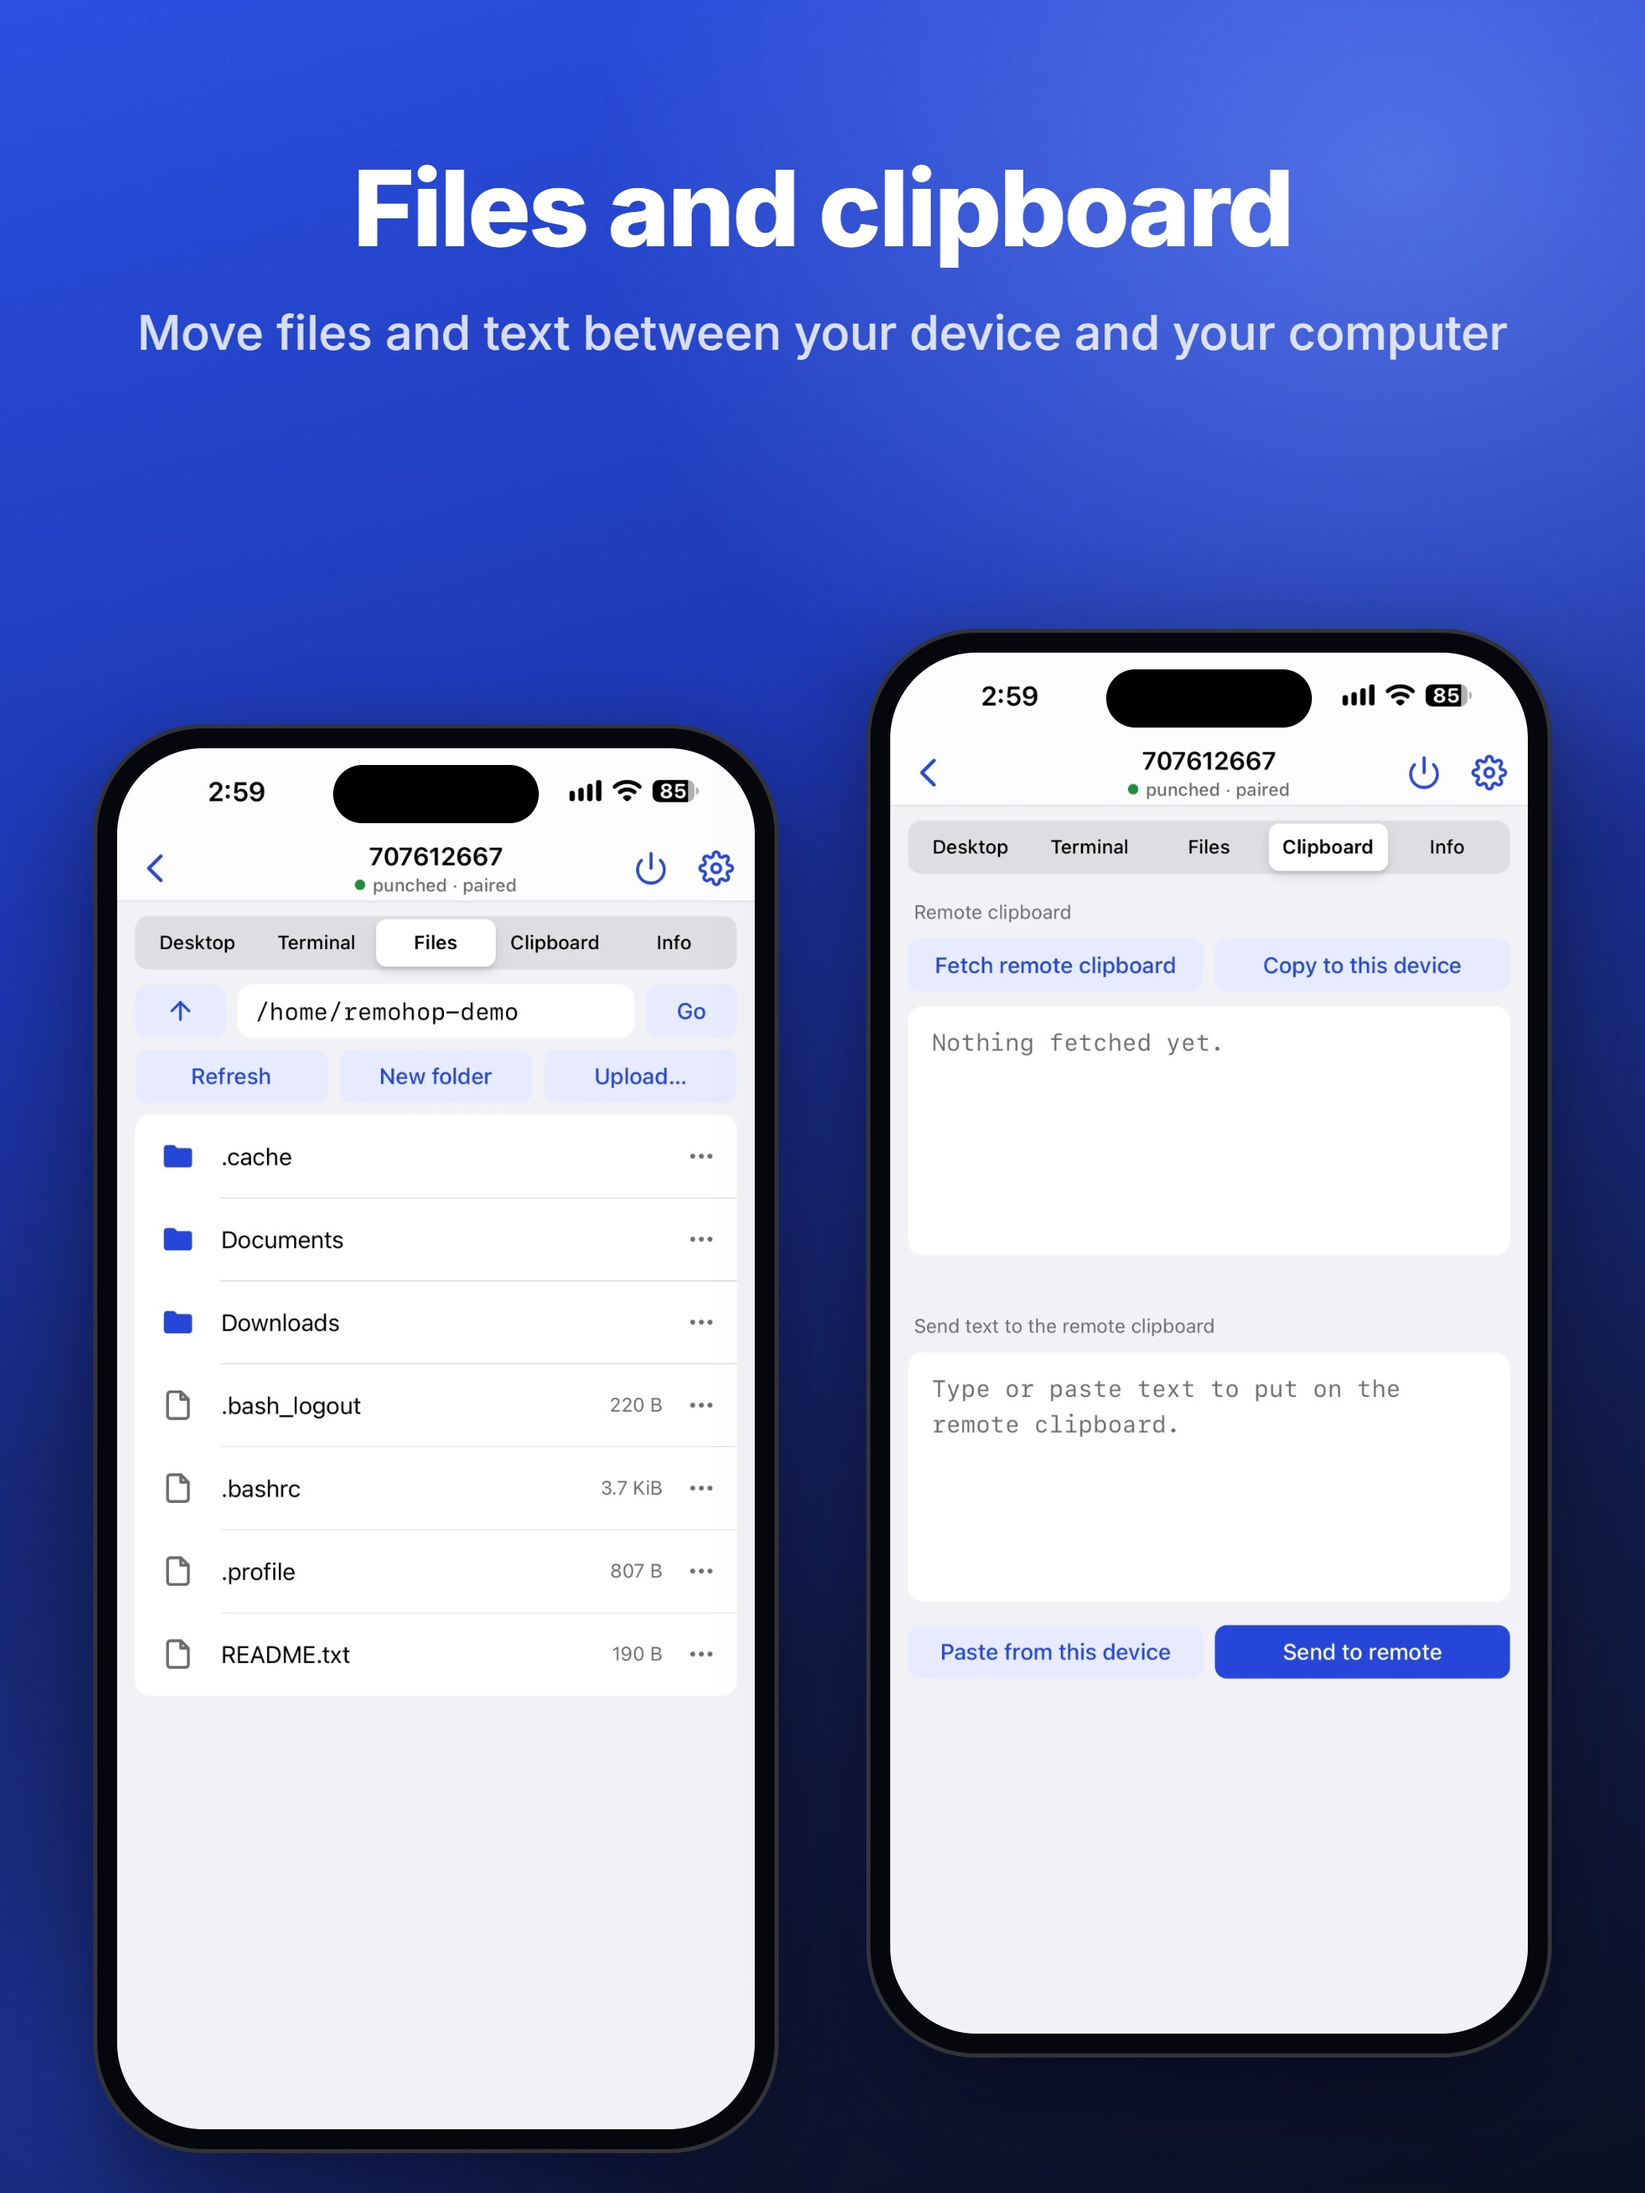
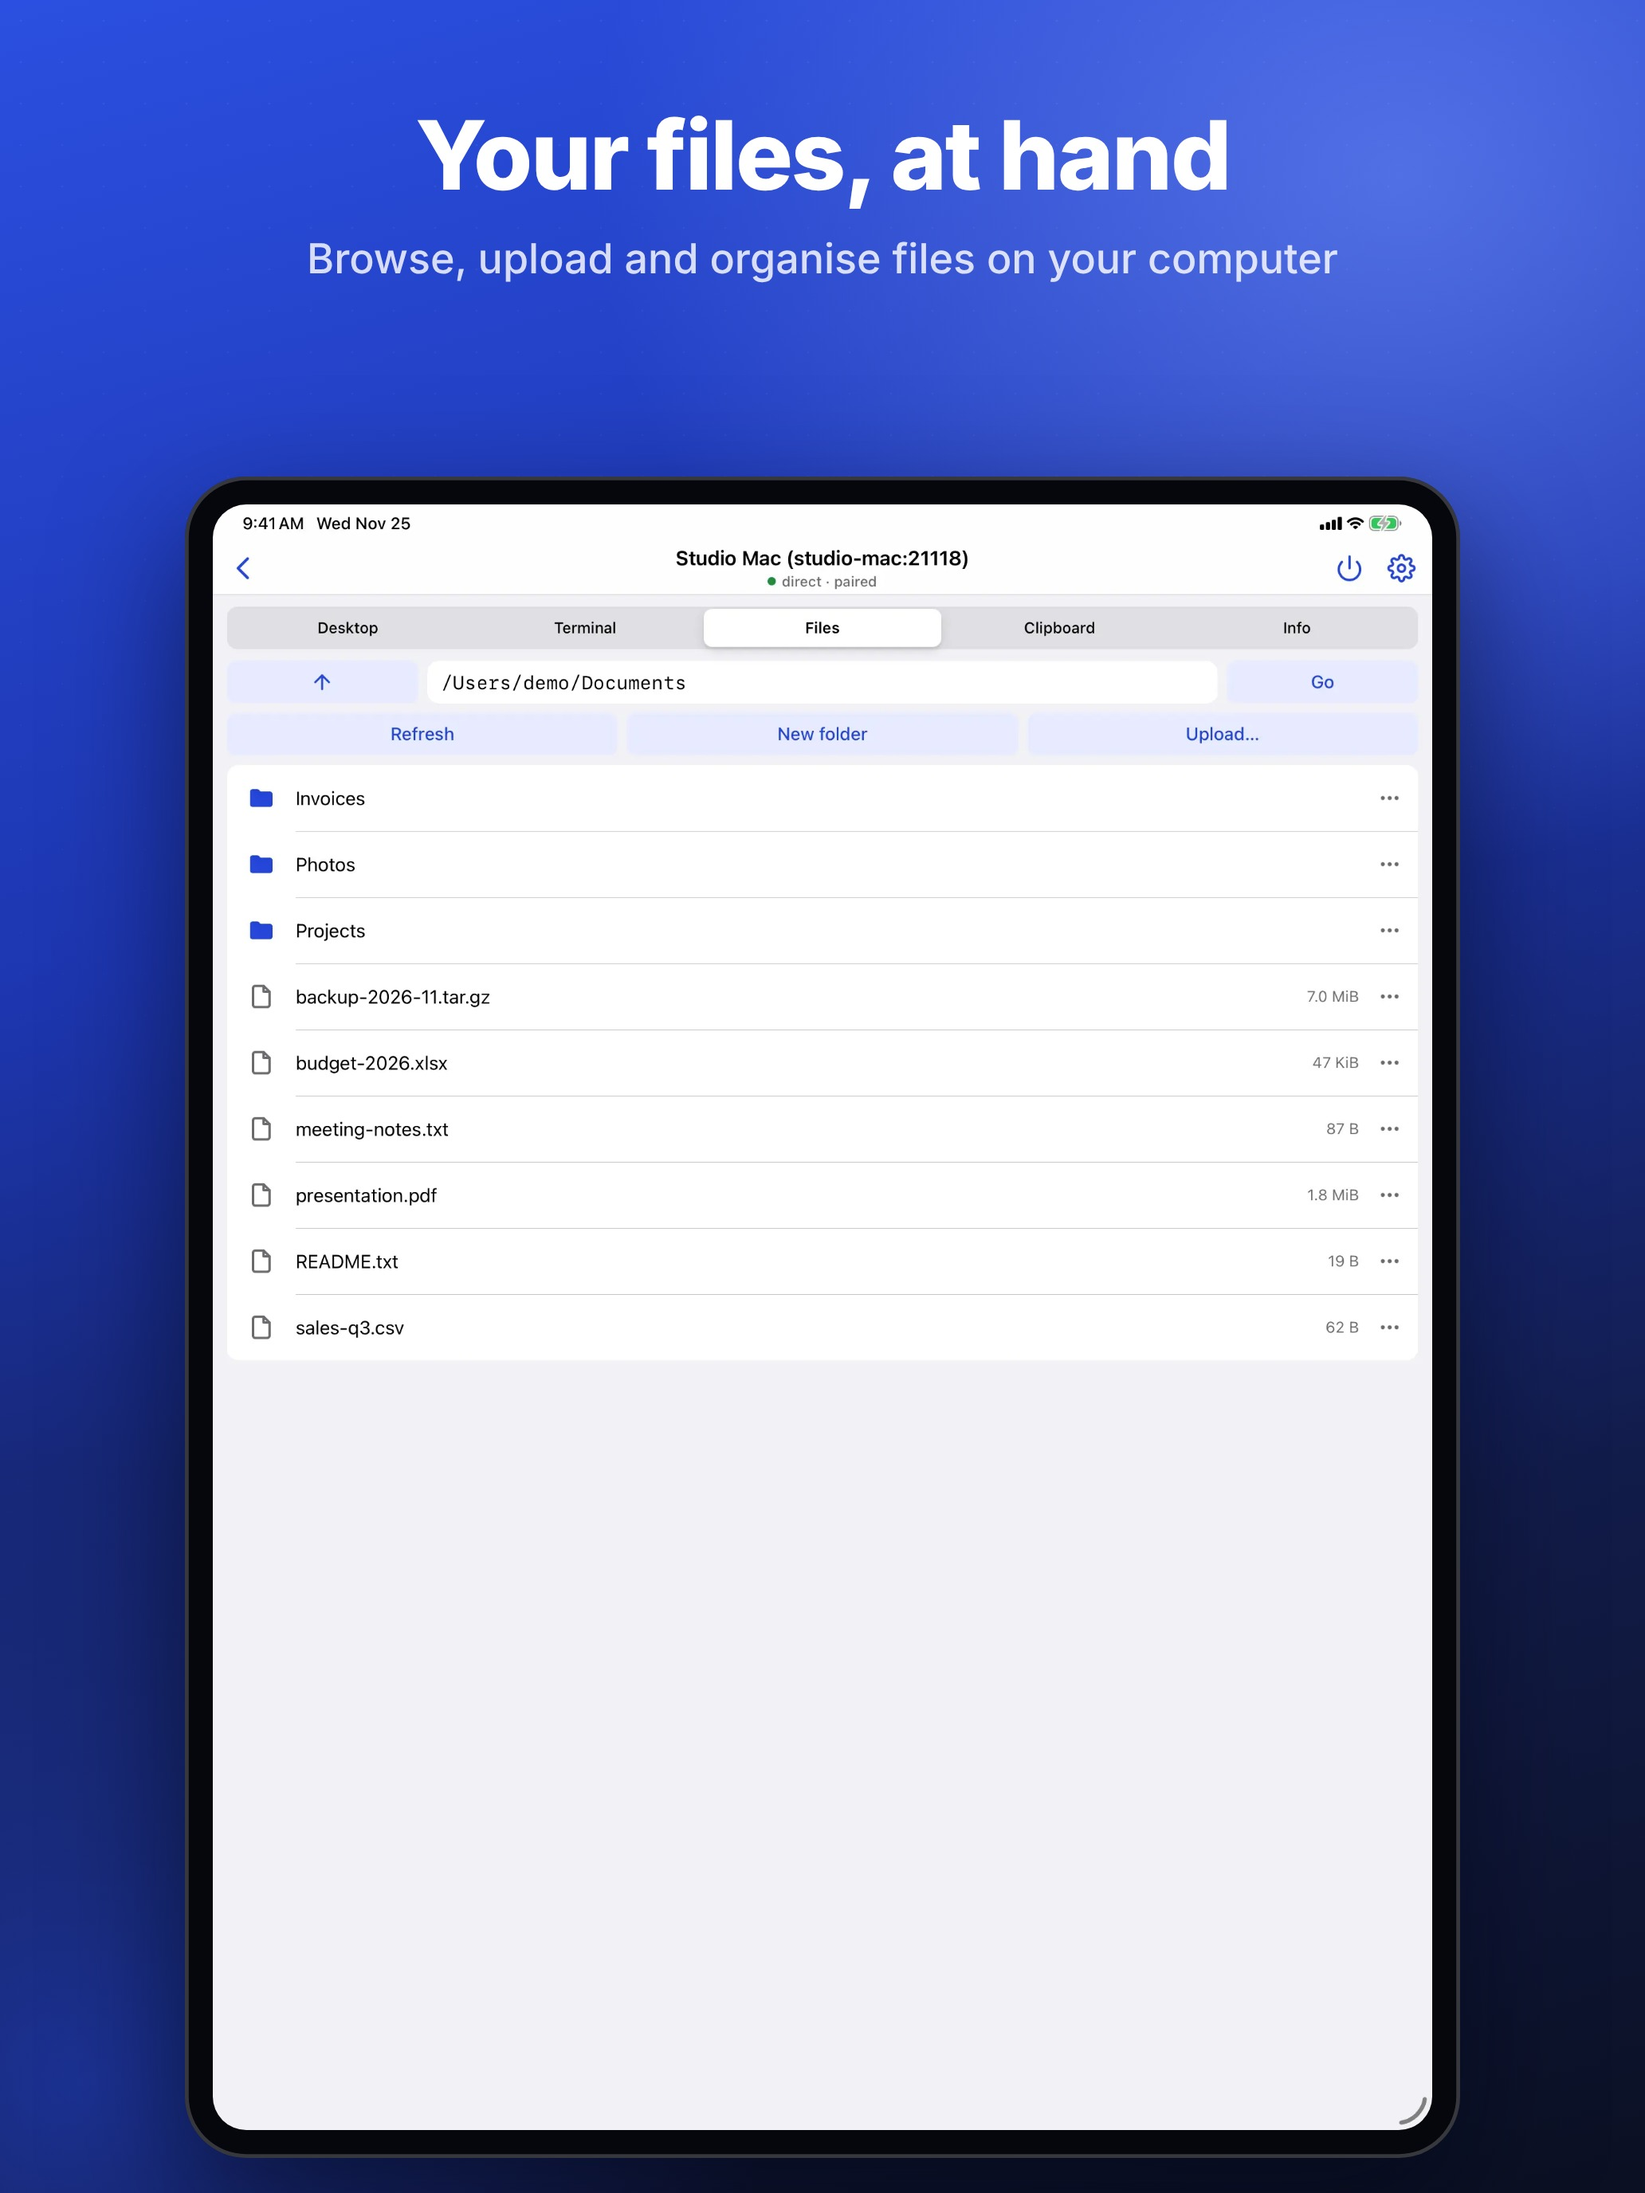
iOS App Store: iPad posters from real iPad captures
The four iPad screenshots per locale showed the iPhone UI in phone
frames (Guideline 2.3.3). They now show the app's real iPad UI, one
screen per poster in an iPad frame: remote desktop, files, the connect
screen with the open session and a saved host, and the terminal,
captured on an iPad Pro 13-inch simulator in English and Simplified
Chinese (CI capture mode, nothing uploaded). File names are unchanged,
so the fastlane set stays 7 iPhone + 4 iPad per locale; the iPhone
posters are byte-identical.

build.js gets an iPad layout (ONLY=ipad builds just those) and the
sources are src/<locale>-ipad-<screen>.webp. testStoreScreens waits
longer for the terminal command's output.

Claude-Session: https://claude.ai/code/session_014jsEHinC4ceXZQrRCy7UyV

diff --git a/mobile/ios/store-art/build.js b/mobile/ios/store-art/build.js
@@ -1,6 +1,7 @@
 // Renders the RemoHop App Store artwork from the real-device screenshots in ./src.
 // Usage: node build.js   (needs puppeteer-core; set PPTR to its node_modules folder)
-// Screens are src/<locale>-<screen>.webp (real-device screenshots). Output: out/<locale>/*.jpg.
+// Screens are src/<locale>-<screen>.webp (real-device screenshots) and src/<locale>-ipad-<screen>.webp
+// (iPad Pro 13" captures, see README). Output: out/<locale>/*.jpg. ONLY=ipad builds only the iPad posters.
 const fs = require("fs");
 const path = require("path");
 const PPTR = process.env.PPTR || "puppeteer-core";
@@ -15,6 +16,7 @@ const url = f => "file:///" + path.join(SRC, f).replace(/\\/g, "/");
 // Screens: src file per language.
 const FILE = { connect: "connect-live" };
 const SHOT = new Proxy({}, { get: (_, key) => ({ en: `en-${FILE[key] || key}.webp`, zh: `zh-${FILE[key] || key}.webp` }) });
+const PAD = new Proxy({}, { get: (_, key) => ({ en: `en-ipad-${key}.webp`, zh: `zh-ipad-${key}.webp` }) });
 
 const T = {
   en: {
@@ -31,11 +33,12 @@ const T = {
       ["info", "Your machine<br>at a glance", "System, memory, disk, uptime and connection details"],
       ["privacy", "Private<br>by design", "End-to-end encrypted and peer-to-peer. No analytics, ads or tracking."],
     ],
+    // [file name, iPad screen, title, subtitle]. The file names are the ones App Store Connect already has.
     pad: [
-      [["desktop", "terminal"], "Screen and terminal,<br>wherever you are", "Remote desktop and real shell sessions on your own computers"],
-      [["files", "clipboard"], "Files and clipboard", "Move files and text between your device and your computer"],
-      [["connect", "info"], "Pair once, connect by ID", "Saved computers connect without a password. No account needed."],
-      [["privacy", "settings"], "End-to-end encrypted", "Peer-to-peer sessions. Keys and settings stay on your device."],
+      ["desktop-terminal", "desktop", "Your computer,<br>on a bigger screen", "Remote desktop with keyboard, mouse and special keys"],
+      ["files-clipboard", "files", "Your files, at hand", "Browse, upload and organise files on your computer"],
+      ["connect-info", "connect", "Pair once,<br>skip the password", "Connect by ID or address. No account needed."],
+      ["privacy-settings", "terminal", "A real terminal,<br>end-to-end encrypted", "Peer-to-peer sessions that stay open when you leave"],
     ],
   },
   zh: {
@@ -53,10 +56,10 @@ const T = {
       ["privacy", "隐私，从设计开始", "端到端加密、点对点直连，没有统计、广告或跟踪"],
     ],
     pad: [
-      [["desktop", "terminal"], "屏幕和终端，随时在手", "在手机和平板上操作你自己的电脑"],
-      [["files", "clipboard"], "文件与剪贴板", "在设备和电脑之间传文件、传文字"],
-      [["connect", "info"], "配对一次，按 ID 直连", "保存过的电脑免密码连接，无需注册账号"],
-      [["privacy", "settings"], "端到端加密", "点对点会话，密钥和设置只保存在本设备上"],
+      ["desktop-terminal", "desktop", "大屏操控<br>你的电脑", "远程桌面，支持键盘、鼠标和常用按键"],
+      ["files-clipboard", "files", "文件随手可取", "浏览、上传、整理电脑上的文件"],
+      ["connect-info", "connect", "配对一次，<br>以后免密码", "输入 ID 或地址即可连接，无需注册账号"],
+      ["privacy-settings", "terminal", "真正的终端，<br>端到端加密", "点对点直连，会话保持在线，回来接着用"],
     ],
   },
 };
@@ -78,6 +81,9 @@ body:before{content:"";position:absolute;inset:0;
 .phone{position:absolute;background:#05070d;border-radius:var(--r);padding:var(--b);
   box-shadow:0 calc(var(--w)*.06) calc(var(--w)*.16) rgba(3,6,20,.55),0 0 0 calc(var(--w)*.006) rgba(255,255,255,.18) inset;}
 .phone img{display:block;width:100%;border-radius:calc(var(--r) - var(--b));}
+.tablet{position:absolute;background:#05070d;border-radius:var(--r);padding:var(--b);
+  box-shadow:0 calc(var(--w)*.04) calc(var(--w)*.1) rgba(3,6,20,.55),0 0 0 calc(var(--w)*.003) rgba(255,255,255,.2) inset;}
+.tablet img{display:block;width:100%;border-radius:calc(var(--r) - var(--b));}
 .phone .island{position:absolute;left:50%;top:calc(var(--b) + var(--w)*.025);transform:translateX(-50%);
   width:calc(var(--w)*.3);height:calc(var(--w)*.085);background:#000;border-radius:999px}
 h1{font-weight:800;letter-spacing:-.02em;line-height:1.08}
@@ -111,16 +117,25 @@ function iphone(lang, [key, title, sub]) {
     ${phone(SHOT[key][lang], (W - pw) / 2, top, pw)}`);
 }
 
-function ipad(lang, [[a, b], title, sub]) {
-  const W = 2064, H = 2752, pw = 860, ph = phoneH(pw), gap = 110;
-  const x0 = (W - 2 * pw - gap) / 2, top = H - ph - 110;
+// iPad frame: w = outer width; the iPad screenshot (2064 x 2752, portrait) keeps its aspect ratio.
+const PAD_ASPECT = 2752 / 2064;
+const padB = w => Math.round(w * 0.022);
+const padH = w => Math.round((w - 2 * padB(w)) * PAD_ASPECT) + 2 * padB(w);
+function tablet(file, x, y, w) {
+  const b = padB(w), r = Math.round(w * 0.048);
+  return `<div class="tablet" style="--w:${w}px;--b:${b}px;--r:${r}px;left:${x}px;top:${y}px;width:${w}px">
+    <img src="${url(file)}"></div>`;
+}
+
+// One real iPad screen per poster, in an iPad frame under the headline.
+function ipad(lang, [, key, title, sub]) {
+  const W = 2064, H = 2752, pw = 1600, ph = padH(pw);
   return page(W, H, lang, `
-    <div style="position:absolute;left:160px;right:160px;top:190px;text-align:center">
-      <h1 style="font-size:132px">${title}</h1>
-      <p class="sub" style="font-size:60px;margin-top:44px">${sub}</p>
+    <div style="position:absolute;left:140px;right:140px;top:130px;text-align:center">
+      <h1 style="font-size:${lang === "zh" ? 116 : 120}px">${title}</h1>
+      <p class="sub" style="font-size:52px;margin-top:30px">${sub}</p>
     </div>
-    ${phone(SHOT[a][lang], x0, top + 60, pw)}
-    ${phone(SHOT[b][lang], x0 + pw + gap, top - 60, pw)}`);
+    ${tablet(PAD[key][lang], (W - pw) / 2, H - ph - 44, pw)}`);
 }
 
 function brandBlock(lang, iconSize, nameSize) {
@@ -165,10 +180,12 @@ function search(lang) {
   const jobs = [];
   for (const lang of ["zh", "en"]) {
     const d = path.join(OUT, lang === "zh" ? "zh-Hans" : "en-US");
-    jobs.push([path.join(d, "Header_5244x2950.jpg"), 5244, 2950, header(lang)]);
-    jobs.push([path.join(d, "SearchResults_3840x2560.jpg"), 3840, 2560, search(lang)]);
-    T[lang].phone.forEach((s, i) => jobs.push([path.join(d, `iPhone_1320x2868_${i + 1}_${s[0]}.jpg`), 1320, 2868, iphone(lang, s)]));
-    T[lang].pad.forEach((s, i) => jobs.push([path.join(d, `iPad_2064x2752_${i + 1}_${s[0].join("-")}.jpg`), 2064, 2752, ipad(lang, s)]));
+    if (process.env.ONLY !== "ipad") {
+      jobs.push([path.join(d, "Header_5244x2950.jpg"), 5244, 2950, header(lang)]);
+      jobs.push([path.join(d, "SearchResults_3840x2560.jpg"), 3840, 2560, search(lang)]);
+      T[lang].phone.forEach((s, i) => jobs.push([path.join(d, `iPhone_1320x2868_${i + 1}_${s[0]}.jpg`), 1320, 2868, iphone(lang, s)]));
+    }
+    T[lang].pad.forEach((s, i) => jobs.push([path.join(d, `iPad_2064x2752_${i + 1}_${s[0]}.jpg`), 2064, 2752, ipad(lang, s)]));
   }
   const browser = await puppeteer.launch({ executablePath: CHROME, headless: true, args: ["--allow-file-access-from-files", "--hide-scrollbars"] });
   const pg = await browser.newPage();

diff --git a/mobile/ios/RemoHopTests/GatewayE2ETests.swift b/mobile/ios/RemoHopTests/GatewayE2ETests.swift
@@ -546,7 +546,7 @@ final class GatewayE2ETests: XCTestCase {
                 return 'ok';
                 """)
             ran = await eventually(expect.isEmpty ? "document.getElementById('t-host').textContent.length > 200"
-                                                  : "document.getElementById('t-host').textContent.includes(\(lit(expect)))", timeout: 15)
+                                                  : "document.getElementById('t-host').textContent.includes(\(lit(expect)))", timeout: 45)
         }
         if !ran { print("store screens: the terminal command did not finish") }
         await pause(1.5)

diff --git a/mobile/ios/store-art/README.md b/mobile/ios/store-art/README.md
@@ -1,6 +1,6 @@
 # App Store artwork
 
-Made from real screenshots of iOS 1.0.0 on an iPhone, connected to the review demo host. There is one set for each locale, en-US and zh-Hans.
+The iPhone images are made from real screenshots of iOS 1.0.0 on an iPhone, connected to the review demo host. The iPad images are made from real captures of the app on an iPad Pro 13-inch simulator (see below). There is one set for each locale, en-US and zh-Hans.
 
 | Output | Size | Where it goes |
 |---|---|---|
@@ -11,15 +11,29 @@ Made from real screenshots of iOS 1.0.0 on an iPhone, connected to the review de
 
 The CI repository's `sodesk-ios.yml` in `metadata` mode uploads the files in `mobile/ios/fastlane/screenshots` with fastlane deliver and replaces the sets that are in App Store Connect. Nothing is submitted for review.
 
-The iPad images show the iPhone UI inside phone frames. Guideline 2.3.3 expects iPad screenshots to show the app running on an iPad, so replace them with real iPad captures before an iPad review if the reviewer objects.
+The iPad images show the app's real iPad UI (Guideline 2.3.3), one screen per poster in an iPad frame. The file names stay the ones App Store Connect already has, so the slugs do not all match the screens:
+
+| File | Screen |
+|---|---|
+| `iPad_2064x2752_1_desktop-terminal.jpg` | remote desktop |
+| `iPad_2064x2752_2_files-clipboard.jpg` | files |
+| `iPad_2064x2752_3_connect-info.jpg` | connect screen with the open session and a saved host |
+| `iPad_2064x2752_4_privacy-settings.jpg` | terminal |
+
+## iPad captures
+
+`src/<locale>-ipad-<screen>.webp` (2064 × 2752) come from the CI repository's `sodesk-ios.yml` in `capture` mode (request `MODE=capture`, `DEVICES=ipad13`, `[sodesk-ios-capture]` in the commit message). It runs `RemoHopTests/GatewayE2ETests/testStoreScreens` on an iPad Pro 13-inch simulator, once with the simulator in English and once in Simplified Chinese, against a `remohop host` on the CI Mac: a made-up home directory (`/Users/demo`) and the Mac's real desktop. The host is saved and renamed in the app ("Studio Mac", "工作室 Mac"). Capture mode uploads nothing; the PNGs are a 7-day artifact, `remohop-ios-capture`. Convert them with e.g. `cwebp -q 95` (or ImageMagick) to the names above.
+
+The current captures are from readori/test-env-setup runs 45528358043 (all screens except the English terminal) and 45525623790 (the English terminal; in the later run a slow first `git` call let the test type the command twice). Both ran the same setup on the same iPad Pro 13-inch (M5) simulator, iOS 26.5.
 
 ## Rebuild
 
-`src/<locale>-<screen>.webp` holds the device screenshots, and `src/icon.png` is the 1024 px app icon. The headlines are in `build.js` (`T`). To rebuild:
+`src/<locale>-<screen>.webp` holds the iPhone screenshots, `src/<locale>-ipad-<screen>.webp` the iPad captures, and `src/icon.png` is the 1024 px app icon. The headlines are in `build.js` (`T`). To rebuild:
 
 ```bash
 npm install puppeteer-core@23
 PPTR=puppeteer-core CHROME="/path/to/chrome" node build.js     # writes out/<locale>/*.jpg
+ONLY=ipad PPTR=puppeteer-core CHROME="/path/to/chrome" node build.js   # only the iPad posters
 ```
 
 Then copy the iPhone and iPad files to `../fastlane/screenshots/<locale>/`, and copy Header and SearchResults to `marketing/<locale>/`.
